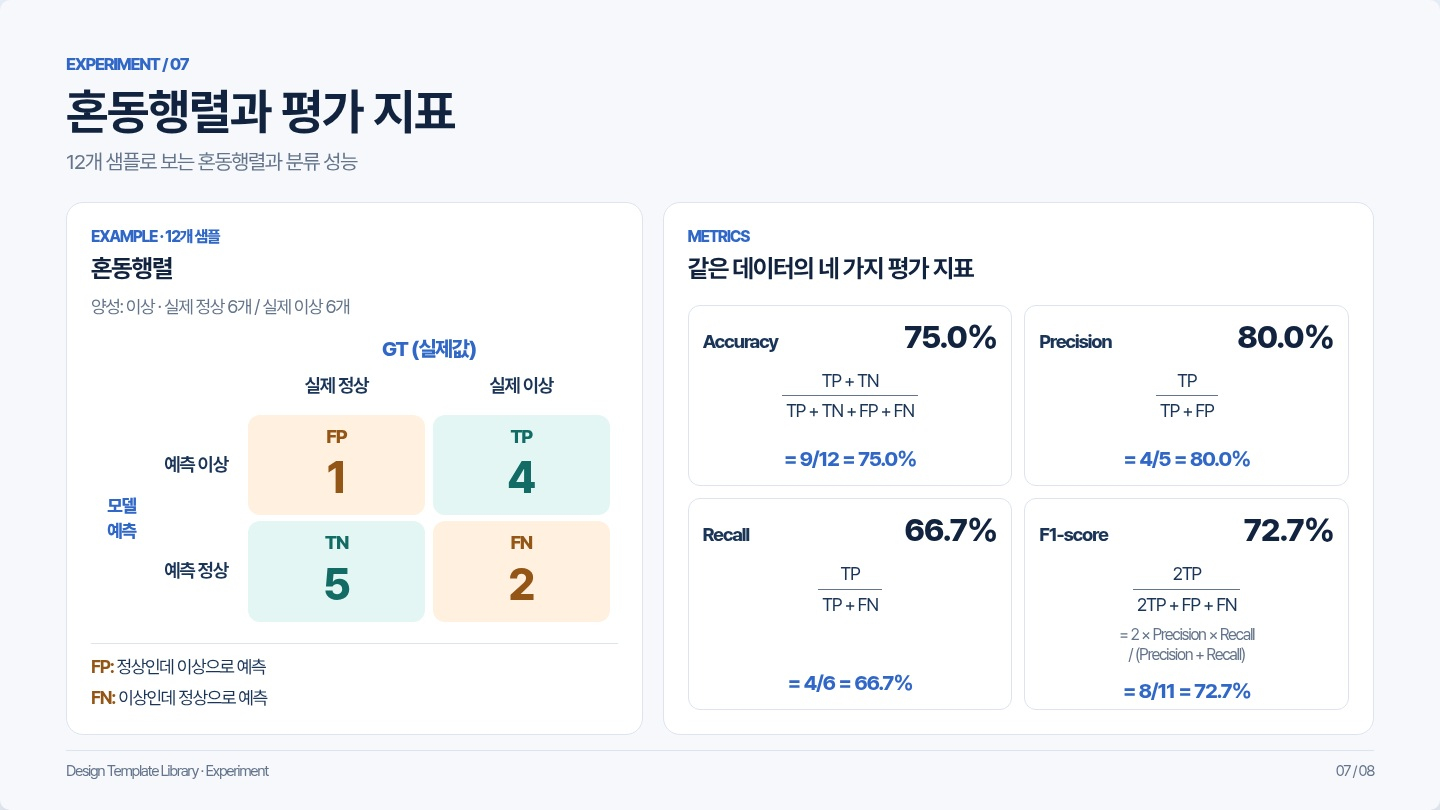
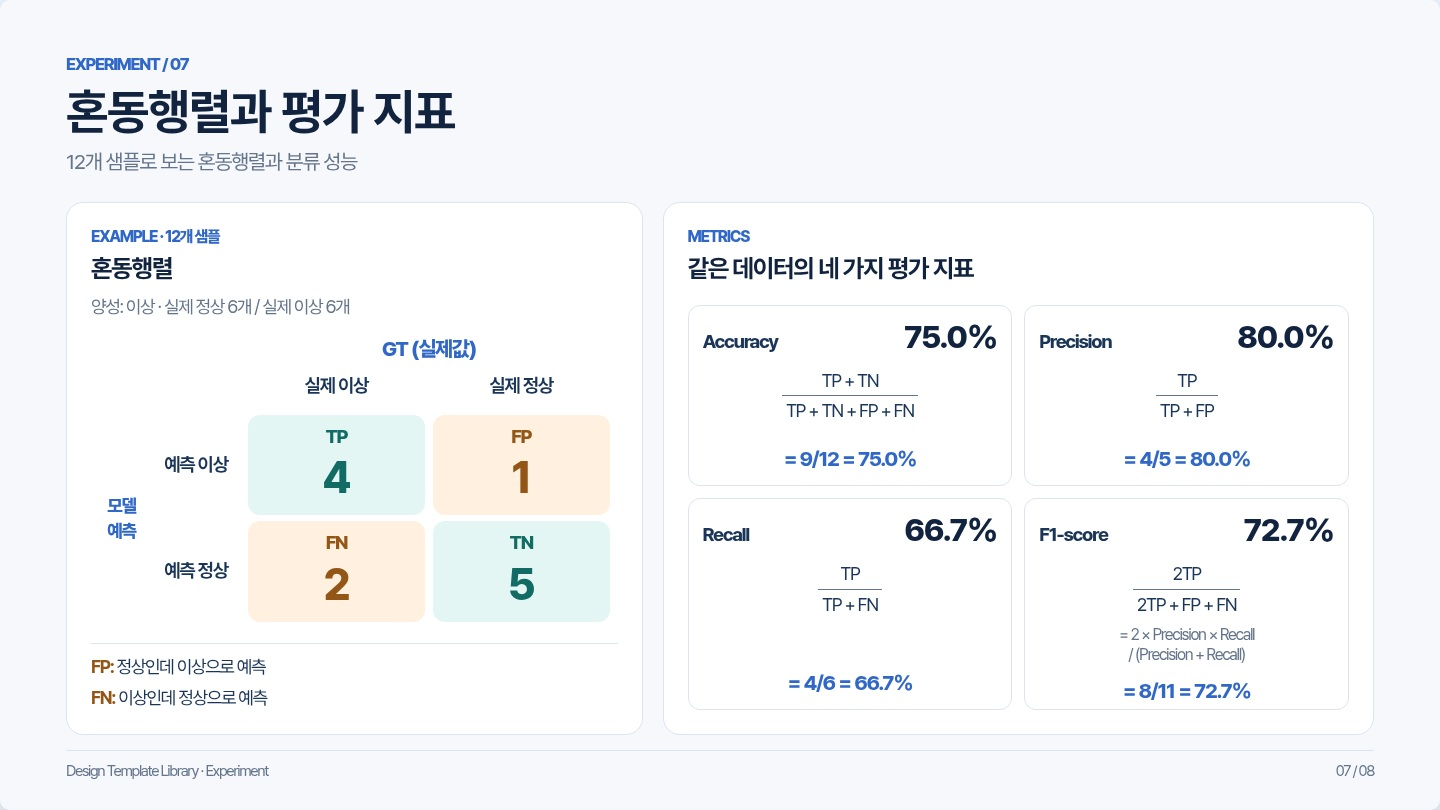
Order Experiment matrix as TP FP and FN TN

Changed region(s): [[0.1562, 0.463, 0.4375, 0.7716]]

diff --git a/templates/html/experiment.html b/templates/html/experiment.html
@@ -75,14 +75,14 @@
         <caption class="sr-only">모델 예측을 행으로, GT 실제값을 열로 표시한 12개 예시 샘플의 혼동행렬</caption>
         <colgroup><col class="axis-col"><col class="row-col"><col><col></colgroup>
         <thead><tr><th colspan="2" aria-hidden="true"></th><th colspan="2" scope="colgroup" class="axis-title gt-axis">GT (실제값)</th></tr>
-          <tr><th colspan="2" aria-hidden="true"></th><th scope="col" class="column-label" id="gt-normal">실제 정상</th><th scope="col" class="column-label" id="gt-anomaly">실제 이상</th></tr></thead>
+          <tr><th colspan="2" aria-hidden="true"></th><th scope="col" class="column-label" id="gt-anomaly">실제 이상</th><th scope="col" class="column-label" id="gt-normal">실제 정상</th></tr></thead>
         <tbody>
           <tr><th rowspan="2" scope="rowgroup" class="axis-title pred-axis">모델<br>예측</th><th scope="row" id="pred-anomaly">예측 이상</th>
-            <td class="error" data-code="FP" headers="pred-anomaly gt-normal"><span class="cm-code">FP</span><strong class="cm-count">1</strong></td>
-            <td class="correct" data-code="TP" headers="pred-anomaly gt-anomaly"><span class="cm-code">TP</span><strong class="cm-count">4</strong></td></tr>
+            <td class="correct" data-code="TP" headers="pred-anomaly gt-anomaly"><span class="cm-code">TP</span><strong class="cm-count">4</strong></td>
+            <td class="error" data-code="FP" headers="pred-anomaly gt-normal"><span class="cm-code">FP</span><strong class="cm-count">1</strong></td></tr>
           <tr><th scope="row" id="pred-normal">예측 정상</th>
-            <td class="correct" data-code="TN" headers="pred-normal gt-normal"><span class="cm-code">TN</span><strong class="cm-count">5</strong></td>
-            <td class="error" data-code="FN" headers="pred-normal gt-anomaly"><span class="cm-code">FN</span><strong class="cm-count">2</strong></td></tr>
+            <td class="error" data-code="FN" headers="pred-normal gt-anomaly"><span class="cm-code">FN</span><strong class="cm-count">2</strong></td>
+            <td class="correct" data-code="TN" headers="pred-normal gt-normal"><span class="cm-code">TN</span><strong class="cm-count">5</strong></td></tr>
         </tbody>
       </table>
       <div class="error-explanations"><p><b>FP:</b> 정상인데 이상으로 예측</p><p><b>FN:</b> 이상인데 정상으로 예측</p></div>

diff --git a/scripts/check_experiment.py b/scripts/check_experiment.py
@@ -92,9 +92,9 @@ def main():
                 page.locator('.slide').screenshot(path=str(output/f'experiment-{width}x{height}.png'),animations='disabled')
                 assert page.locator('h1').inner_text()=='혼동행렬과 평가 지표'
                 assert page.locator('.subtitle').inner_text()=='12개 샘플로 보는 혼동행렬과 분류 성능'
-                assert r['labels']=={'columns':['실제 정상','실제 이상'],'rows':['예측 이상','예측 정상']}
-                assert [(c['code'],c['count']) for c in r['counts']]==[('FP',1),('TP',4),('TN',5),('FN',2)]
-                assert [c['headers'] for c in r['counts']]==['pred-anomaly gt-normal','pred-anomaly gt-anomaly','pred-normal gt-normal','pred-normal gt-anomaly']
+                assert r['labels']=={'columns':['실제 이상','실제 정상'],'rows':['예측 이상','예측 정상']}
+                assert [(c['code'],c['count']) for c in r['counts']]==[('TP',4),('FP',1),('FN',2),('TN',5)]
+                assert [c['headers'] for c in r['counts']]==['pred-anomaly gt-anomaly','pred-anomaly gt-normal','pred-normal gt-anomaly','pred-normal gt-normal']
                 counts={c['code']:c['count'] for c in r['counts']};tp,tn,fp,fn=(counts[k] for k in ['TP','TN','FP','FN'])
                 assert tp+tn+fp+fn==12 and tn+fp==6 and tp+fn==6
                 precision=Fraction(tp,tp+fp);recall=Fraction(tp,tp+fn)

diff --git a/TEMPLATE_CATALOG.md b/TEMPLATE_CATALOG.md
@@ -25,7 +25,7 @@
 - **Step-by-step**: 계산식과 입력값, 결과가 실제로 일치해야 합니다.
 - **Interactive**: 조작할 수 있는 변수와 화면에 표시하는 계산이 일치해야 합니다. 계산 예시는 정적 이미지로 대체하지 않습니다.
 - **Architecture**: 각 텐서의 H/W/C와 stride·padding 관계를 확인합니다.
-- **Experiment**: [혼동행렬 원본](templates/html/experiment.html)과 [실제 프리뷰](previews/html-experiment.jpg)는 왼쪽 혼동행렬 + 오른쪽 4개 지표 구성을 유지합니다. 가로축은 **GT(실제값)**로 정상→이상, 세로축은 **모델 예측**으로 이상→정상 순서입니다. 따라서 상단 행은 **FP=1 / TP=4**, 하단 행은 **TN=5 / FN=2**입니다. TN/TP는 Teal, FP/FN은 Amber이며 축·라벨·셀을 중앙 정렬합니다. 12개 예시 샘플(실제 정상 6, 실제 이상 6), 양성=이상 기준을 유지하고 FP/FN의 의미를 행렬 아래에 설명합니다. 각 지표 옆에 공식과 대입 결과를 함께 표시합니다: Accuracy 9/12=75.0%, Precision 4/5=80.0%, Recall 4/6=66.7%, F1 8/11=72.7%. F1은 `2PR/(P+R)`의 전체 Precision/Recall 표기와 동치식 `2TP/(2TP+FP+FN)`을 모두 제공합니다. 제목·본문은 공통 Pretendard와 -1pt를 상속하며, #7 전용 스타일은 해당 HTML에 한정했습니다.
+- **Experiment**: [혼동행렬 원본](templates/html/experiment.html)과 [실제 프리뷰](previews/html-experiment.jpg)는 왼쪽 혼동행렬 + 오른쪽 4개 지표 구성을 유지합니다. 가로축은 **GT(실제값)**로 이상→정상, 세로축은 **모델 예측**으로 이상→정상 순서입니다. 따라서 상단 행은 **TP=4 / FP=1**, 하단 행은 **FN=2 / TN=5**입니다. TN/TP는 Teal, FP/FN은 Amber이며 축·라벨·셀을 중앙 정렬합니다. 12개 예시 샘플(실제 정상 6, 실제 이상 6), 양성=이상 기준을 유지하고 FP/FN의 의미를 행렬 아래에 설명합니다. 각 지표 옆에 공식과 대입 결과를 함께 표시합니다: Accuracy 9/12=75.0%, Precision 4/5=80.0%, Recall 4/6=66.7%, F1 8/11=72.7%. F1은 `2PR/(P+R)`의 전체 Precision/Recall 표기와 동치식 `2TP/(2TP+FP+FN)`을 모두 제공합니다. 제목·본문은 공통 Pretendard와 -1pt를 상속하며, #7 전용 스타일은 해당 HTML에 한정했습니다.
 
   **검증:** [scripts/check_experiment.py](scripts/check_experiment.py)로 1600×950 / 1440×810 / 1366×768 / 1280×720 / 900×900 / 390×844의 6개 Chromium 렌더링을 재현합니다. 축 방향·셀 위치·중심 좌표, 독립 분수 계산, 수식·카드 잘림, 푸터 겹침, 모바일 가로 넘침, 자간·폰트 일관성을 확인했습니다([검증 JSON](previews/review/experiment-validation.json)). 실제 Pretendard 로딩은 TLS 검증을 거쳐 가져온 원본 CDN 글꼴을 임시 캐시에서 제공해 검증하며 브라우저 신뢰 설정은 변경하지 않습니다. 재사용 시에도 축 순서와 수식의 분모를 새 데이터에 맞게 함께 검산합니다.
 - **Executive Summary**: 숫자보다 의사결정 메시지를 우선합니다. 세 지표를 **하나의 그룹형 세로 막대그래프의 x축**에 나란히 놓고, 각 지표에 기존/개선 막대 2개와 감소율을 표시합니다(월간 점검 120→80건 −33.3%, 평균 처리 시간 45→30분/건 −33.3%, 월말 미처리 20→8건 −60.0%). 막대 위에 실제 값과 단위를 표시하며, 공통 비율축(0·50·100%)은 각 지표의 기존 값을 100%로 정규화합니다. 단위가 다른 원래 수치를 하나의 절대값 축에서 비교하지 않습니다. 기존 카드 내부의 과도한 좌우 여백을 줄이고 비교 그래프 영역을 넓혔으며, 모바일에서도 세 지표의 가로 그룹을 유지합니다. 상단 KPI 요약과 가로 그래프의 중복 표시는 제거했습니다. 1500×950 / 1366×768 / 1280×720 / 900×900 / 390×844 Chromium 검증 완료 ([검증 JSON](previews/review/executive-summary-validation.json)).
